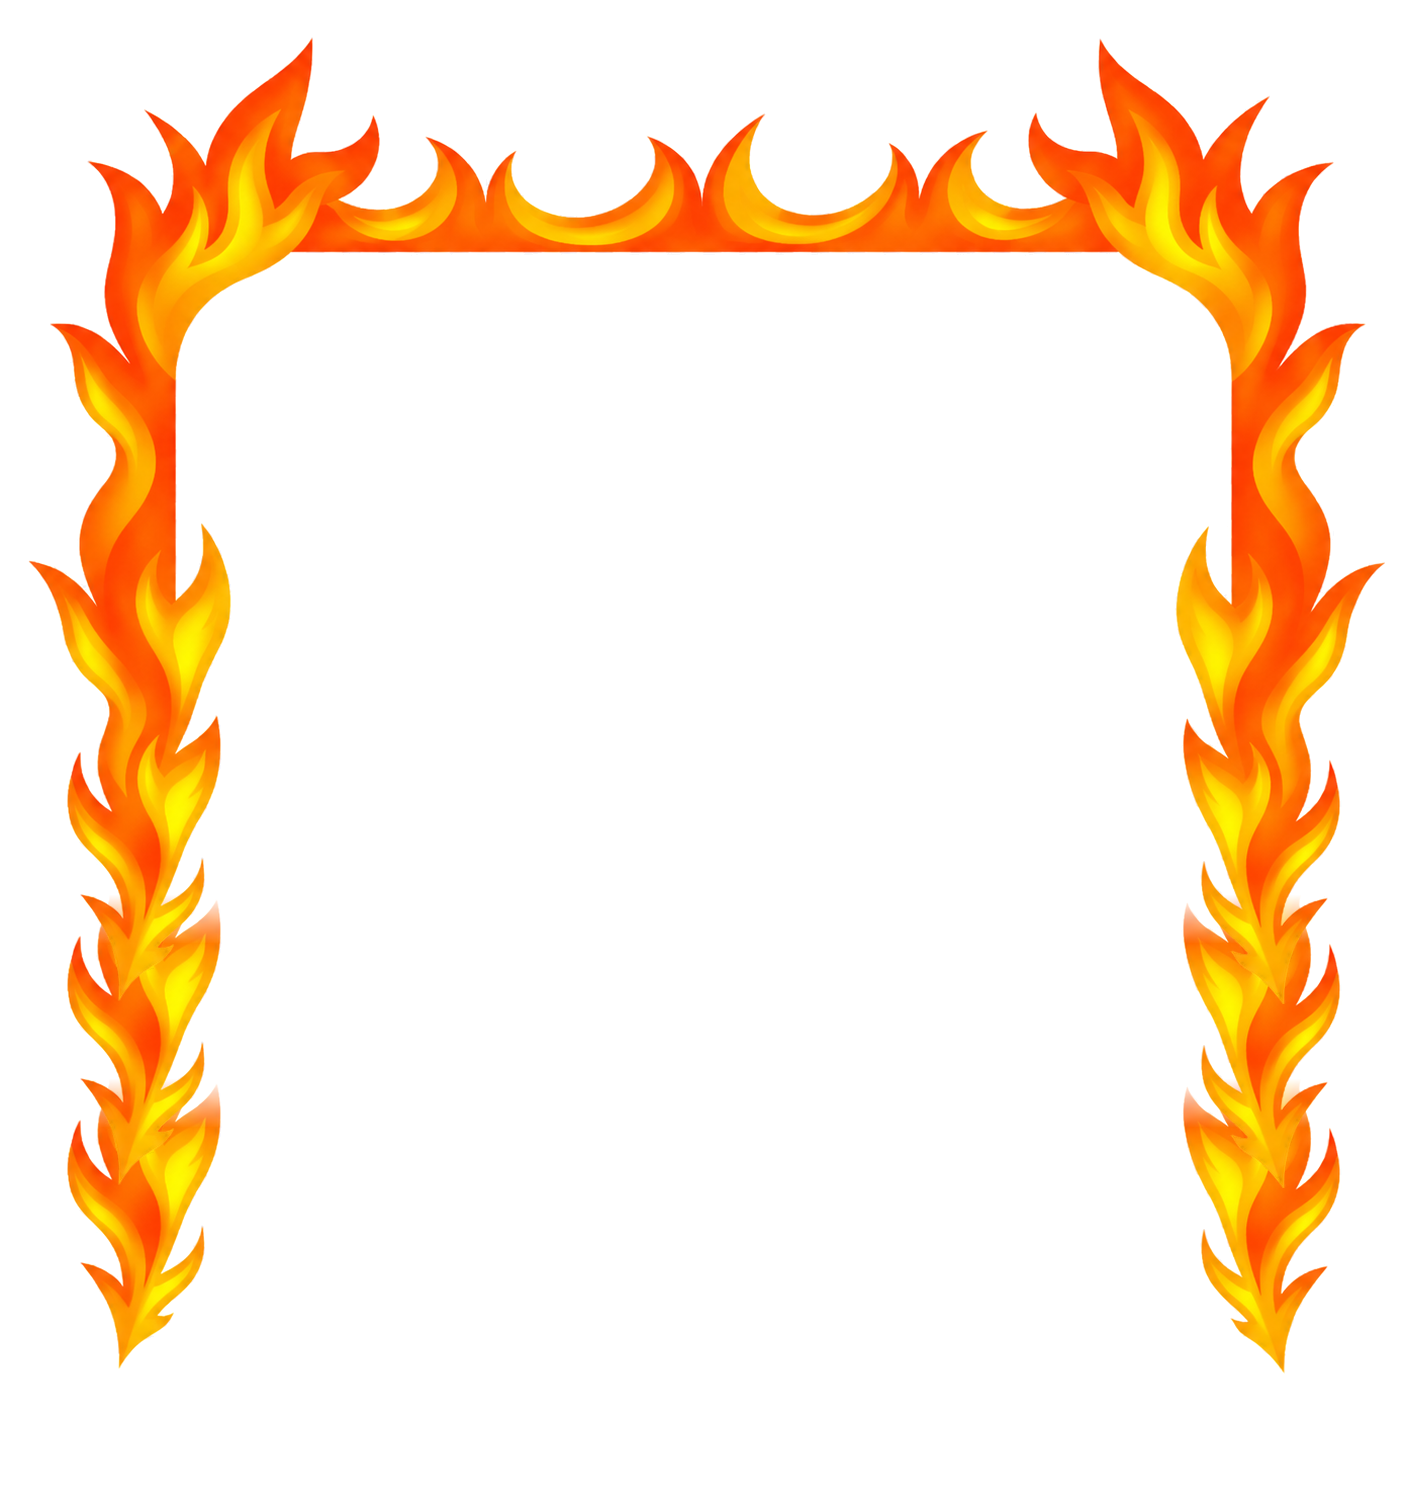
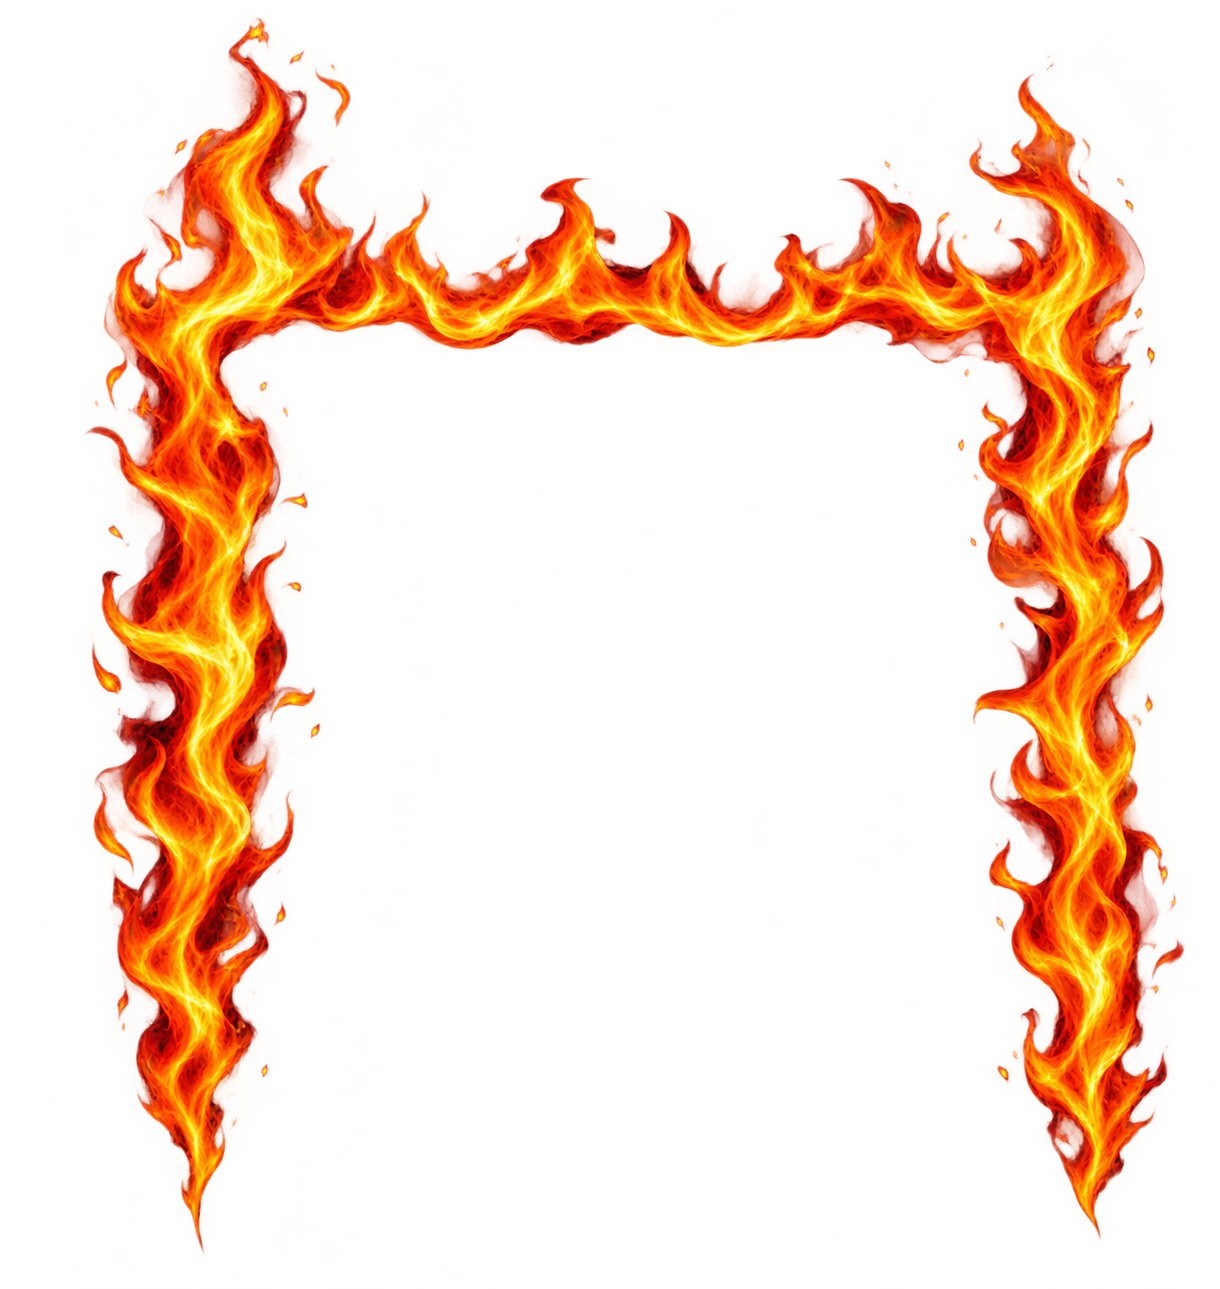
Better Offers Images UI

Changed region(s): [[0.0311, 0.0, 0.9967, 0.962]]

diff --git a/src/components/DealsCarousel.tsx b/src/components/DealsCarousel.tsx
@@ -183,7 +183,7 @@ export function DealsCarousel<T>({
         // less dead space shows up under the title on a typical (narrower
         // than 300px) card, at the cost of very little room for error at
         // the exact 300px width.
-        className="scrollbar-hide flex items-center gap-4 overflow-x-auto pb-2 pt-12"
+        className="scrollbar-hide flex items-center gap-4 overflow-x-auto pb-2 pt-22"
         onPointerDown={pauseAutoAdvance}
         onWheel={pauseAutoAdvance}
         onTouchStart={pauseAutoAdvance}

diff --git a/src/components/ProductCard.tsx b/src/components/ProductCard.tsx
@@ -61,8 +61,8 @@ export function ProductCard({
             src="/fire-frame.png"
             alt=""
             aria-hidden="true"
-            className="pointer-events-none absolute -start-[11%] h-auto max-w-none w-[122%]"
-            style={{ top: "-21cqw" }}
+            className="pointer-events-none absolute -start-[14%] h-auto max-w-none w-[136%]"
+            style={{ top: "-36cqw" }}
           />
         )}
         {(limitedTimeDiscount || cheapestTier) &&
